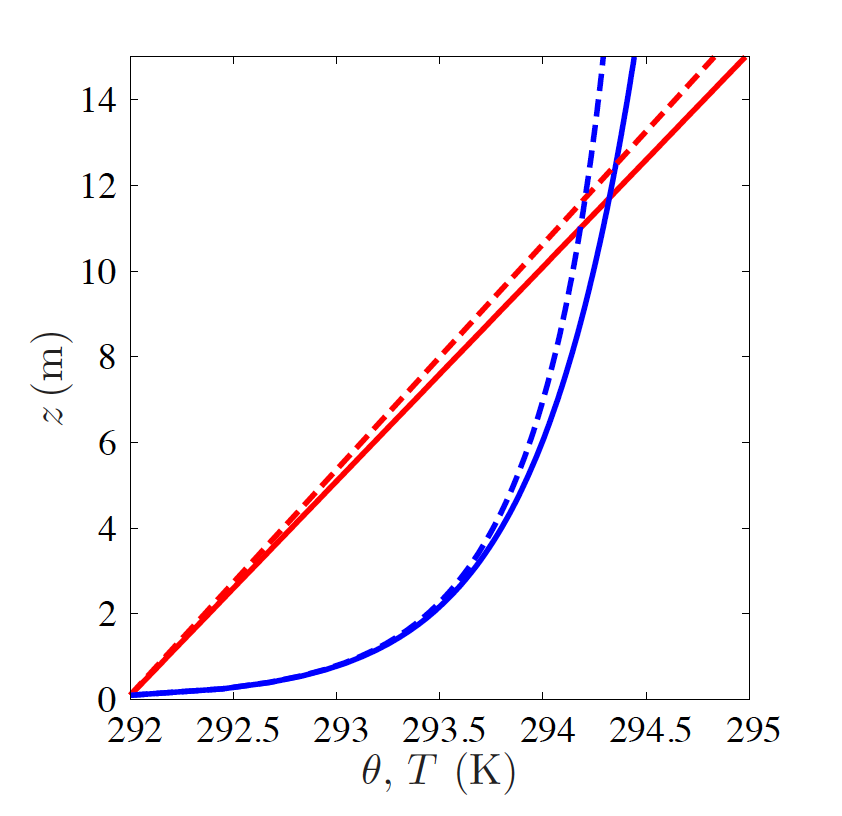
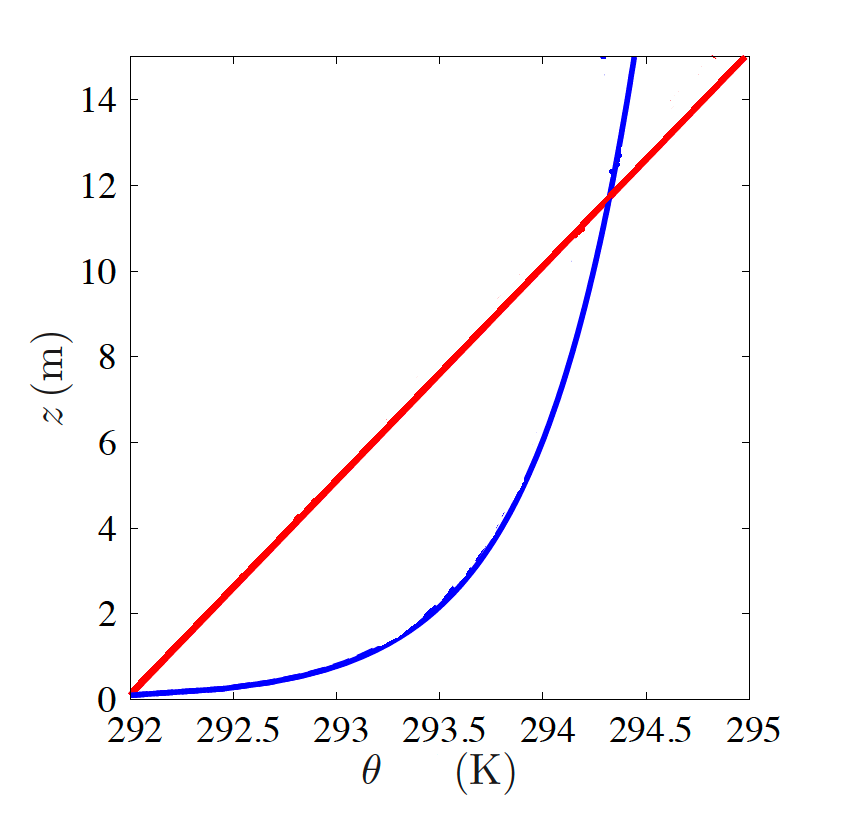
Simplify exercise about radiative cooling

diff --git a/exercises/week5.md b/exercises/week5.md
@@ -400,11 +400,9 @@ the interfaces are approximately at 2.55 and 7.5 meters.
 
 ```{hint}
 :class: tip, dropdown
-Use $\rho\,c_p=1231\rm\,\frac{W\,m^{-2}}{K\,m\,s^{-1}}$. 
+Use $\rho\,c_p=1231\rm\, J\,m^{-3}\ K{-1}$. 
 
-We know that $ T = \theta\ \left(\dfrac{P}{P_0}\right)^{\dfrac{R_d}{c_p}} $. 
-From that, it can be derived that by approximation $ \pafg{T}{z} = \pafg{\theta}{z} - \dfrac{g}{c_p} $ and 
-therefore $T = \theta - \dfrac{g}{c_p}z $. Use this to convert the potential temperatures to absolute temperatures. 
+Assume (since we are close to the surface) that $ T = \theta $.
 
 ```
 
@@ -413,7 +411,7 @@ therefore $T = \theta - \dfrac{g}{c_p}z $. Use this to convert the potential tem
 
 ```{figure} figures/exercise7_3b.png
 :name: fig:ans_73b
-Vertical profiles of $\theta$ (solid lines) and $T$ (dashed lines) in red for exercise b (linear profile) 
+Vertical profiles of $\theta$ in red for exercise b (linear profile) 
 and in blue for exercise c (logarithmic profile). 
 ```
 
@@ -426,32 +424,18 @@ $$
 
 The interfaces are located at 2.55 m and 7.5 m, so $\Delta z = 4.95\ \rm{m}$.
 
-With the linear temperature profile, we find the following potential temperatures:
+With the linear temperature profile, we find the following temperatures:
 
 $$
-\theta_{\rm Surface} = 292\rm\,K
-$$
-
-$$
-\theta_{\rm Middle} = 292.98\rm\,K
-$$
-
-$$
-\theta_{\rm Top} = 293.98\rm\,K
-$$
-
-This results in the following absolute temperatures, using $T = \theta - \dfrac{g}{c_p}z = \theta-{10\rm\,K\,km^{-1}}\,z$: 
-
-$$
-T_{\rm Surface} = 291.999\rm\,K 
+T_{\rm Surface} = \theta_{\rm Surface} = 292 \rm\,K 
 $$(for:73temp1)
 
 $$
-T_{\rm Middle} = 292.93\rm\,K 
+T_{\rm Middle} = \theta_{\rm Middle} = 292.98\rm\,K
 $$(for:73temp2)
 
 $$
-T_{\rm Top} = 293.88\rm\,K 
+T_{\rm Top} = \theta_{\rm Top} = 293.98\rm\,K
 $$(for:73temp3)
 
 $\rho\,c_p=1231\rm\,\frac{W\,m^{-2}}{K\,m\,s^{-1}}$, 
@@ -460,11 +444,8 @@ $\epsilon_{\rm IR} = 0.78$,
 so $\frac{\epsilon_{\rm IR}\, \sigma_{\rm SB}}{\rho\,c_p} = 3.59\times 10^{-11} \rm K^{-3}\,m\,s^{-1}$.
 
 $$
-\gemafg{\theta}{t} = 2.05\times 10^{-5} \rm\,K\,s^{-1} = 0.074\,K\,hr^{-1}
+\gemafg{\theta}{t} = 2.2\times 10^{-5} \rm\,K\,s^{-1} = 0.079\,K\,hr^{-1}
 $$
-
-Note that using rounded temperatures of Equations {eq}`for:73temp1`-{eq}`for:73temp3` results in wrong answers. 
-This is due to the power of 4 of the temperature. 
 
 </details>
 
@@ -480,7 +461,7 @@ $$
 \theta_* = - \frac{\overline{w'\theta'}}{u_*}
 $$
 
-Use the following values to complete the expression: $\overline{w'\theta'}$ = - 24 Wm$^{-2}$,
+Use the following values to complete the expression: $\overline{w'\theta'}$ = - 0.0195 K m s$^{-1}$,
 u$_*$=0.1 m, z$_o$=0.1 m and von Karman constant equal to 0.4.
 Similar to (b), assume the surface layer at z$_o$=0.1 m and $\theta (z_o)$=292 K; and layers middle
 and top at 5 and 10 meters respectively.
@@ -488,12 +469,12 @@ and top at 5 and 10 meters respectively.
 <details>
   <summary>Answer</summary>
 
-Substituting the variables (and considering that $T = \theta-{10\rm\,K\,km^{-1}}\,z$) leads to 
+Substituting the variables leads to 
 
 $$
-T_{\rm Surface} &\approx 292\rm\,K\\
+T_{\rm Surface} &= 292\rm\,K\\
 T_{\rm Middle}  &\approx 293.9\rm\,K\\
-T_{\rm Top}     &\approx 294.1\rm\,K
+T_{\rm Top}     &\approx 294.2\rm\,K
 $$
 
 The constants are equal to exercise b, so
@@ -502,16 +483,17 @@ $$
 \gemafg{\theta}{t} = -1.14\times 10^{-3} \rm\,K\,s^{-1} = -4.1\,K\,hr^{-1}
 $$
 
+Note that using the rounded temperatures results in wrong answers. This is due to the power of 4 of the temperature.
+
 </details>
 
 d) Discuss your results from a perspective of the tendency of the temperature $\pafg{\overline{\theta}}{t}$.
-Calculate in K h$^{-1}$.
 Based on the results of (b) and (c), discuss the most probable profile observed during stable conditions.
 
 <details>
   <summary>Answer</summary>
 
-According to a linear potential temperature profile, the middle layer would actually heat up due to radiation by 0.074 K per hour. 
+According to a linear potential temperature profile, the middle layer would actually heat up due to radiation by 0.079 K per hour. 
 This is in contradiction with the knowledge that at night radiative cooling takes effect.  
 
 The more realistic logarithmic profile results in a cooling effect due to radiation by 4.1 K per hour. This is more reasonable.
